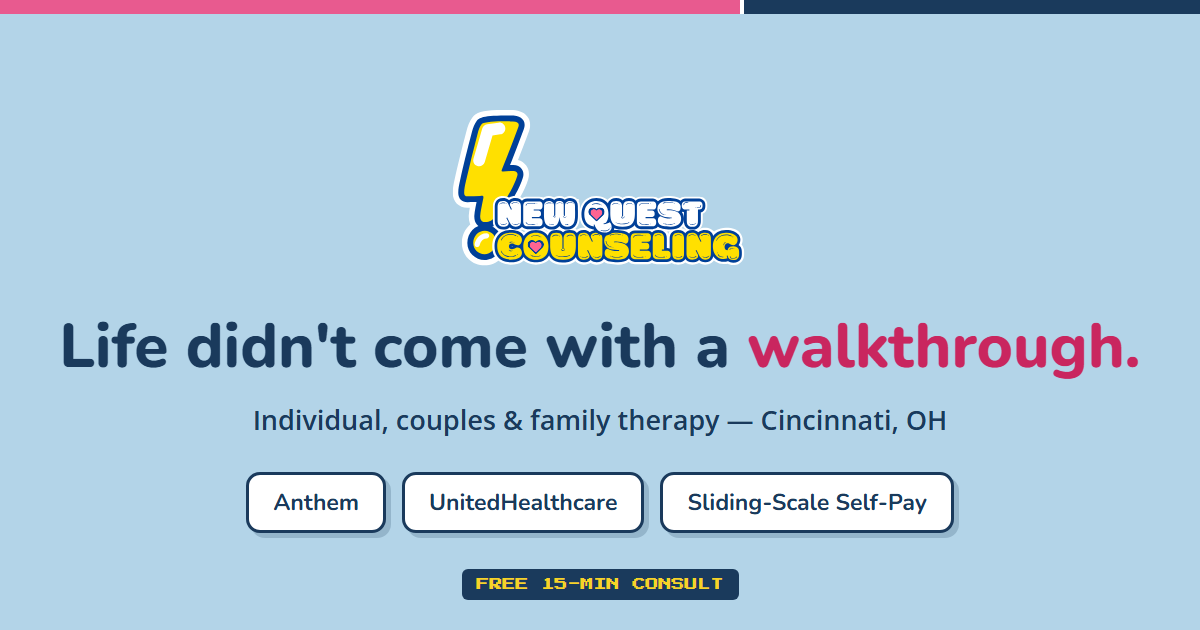
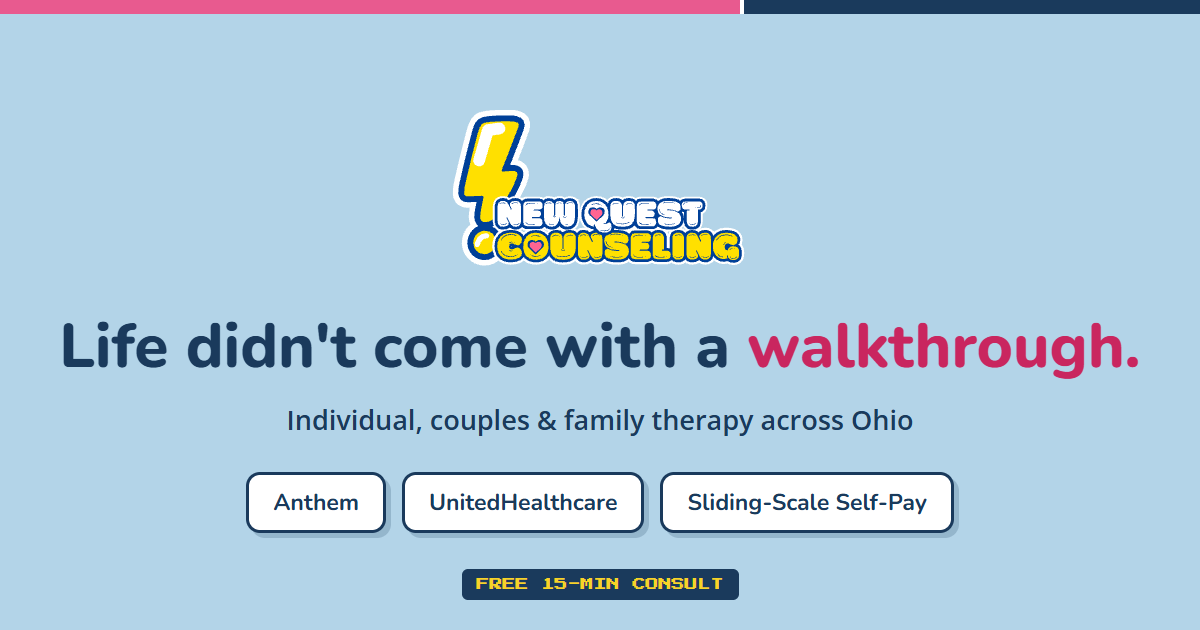
Reframe the site from Cincinnati-only to statewide online therapy
Dorasae now sees every client by video and is licensed across Ohio, so the
addressable market is the whole state, not one metro. The site did not say so.

Of the 11 Cincinnati mentions only 2 were in visible body copy, but the other
9 sat in the title, meta description, OG and Twitter cards, and schema.org
description, which is exactly what Google reads and what a searcher sees in
results. The FAQ already had the right statewide framing, buried 400 lines
down where no visitor arriving from an ad would reach it.

Title and meta now lead with online therapy in Ohio and name Cincinnati,
Columbus and Cleveland. The hero carries a visible "Online sessions anywhere
in Ohio. Based in Cincinnati." line, which is the message-match target for the
planned Search campaign. Cincinnati is reframed rather than removed: she is
based there, it carries local SEO weight, and the postal address in the
structured data is untouched.

Counts on index.html: Cincinnati 11 to 7, Ohio 6 to 11, Columbus and Cleveland
0 to 3 each, online/virtual 2 to 10.

Also fixes a path bug in images/og-image.html. It referenced logo.svg relative
to images/, where no such file exists, so regenerating the social card
silently dropped the logo. Now ../logo.svg. og-image.png regenerated with the
new subtitle and the logo intact.

Removes all 11 em dashes across the site, including two in meta descriptions
and one in visible about.html copy.

diff --git a/index.html b/index.html
@@ -40,8 +40,8 @@
     }
     </script>
 
-    <title>New Quest Counseling | Therapy in Cincinnati, OH</title>
-    <meta name="description" content="Therapy in Cincinnati, Ohio with Dorasae Rosario, LPCC. Individual, couples, and family counseling for anxiety, burnout, and life transitions. Now accepting Anthem and UnitedHealthcare, plus sliding-scale self-pay. Free 15-minute consultation.">
+    <title>New Quest Counseling | Online Therapy in Ohio</title>
+    <meta name="description" content="Online therapy anywhere in Ohio, including Cincinnati, Columbus, and Cleveland. Individual, couples, and family counseling with Dorasae Rosario, LPCC, for anxiety, burnout, and life transitions. Anthem and UnitedHealthcare accepted, plus sliding-scale self-pay. Free 15-minute consultation.">
     <link rel="canonical" href="https://www.newquestcounseling.com/">
     <meta name="theme-color" content="#1A3A5C">
 
@@ -53,18 +53,18 @@
     <meta property="og:type" content="website">
     <meta property="og:site_name" content="New Quest Counseling">
     <meta property="og:url" content="https://www.newquestcounseling.com/">
-    <meta property="og:title" content="New Quest Counseling | Therapy in Cincinnati, OH">
-    <meta property="og:description" content="Life didn't come with a walkthrough. Individual, couples, and family therapy in Cincinnati, OH. Now accepting Anthem and UnitedHealthcare. Free 15-minute consultation.">
+    <meta property="og:title" content="New Quest Counseling | Online Therapy in Ohio">
+    <meta property="og:description" content="Life didn't come with a walkthrough. Online individual, couples, and family therapy across Ohio. Now accepting Anthem and UnitedHealthcare. Free 15-minute consultation.">
     <meta property="og:image" content="https://www.newquestcounseling.com/og-image.png">
     <meta property="og:image:width" content="1200">
     <meta property="og:image:height" content="630">
-    <meta property="og:image:alt" content="New Quest Counseling — therapy in Cincinnati, Ohio">
+    <meta property="og:image:alt" content="New Quest Counseling, online therapy across Ohio">
     <meta property="og:locale" content="en_US">
 
     <!-- Twitter -->
     <meta name="twitter:card" content="summary_large_image">
-    <meta name="twitter:title" content="New Quest Counseling | Therapy in Cincinnati, OH">
-    <meta name="twitter:description" content="Life didn't come with a walkthrough. Individual, couples, and family therapy in Cincinnati, OH. Now accepting Anthem and UnitedHealthcare.">
+    <meta name="twitter:title" content="New Quest Counseling | Online Therapy in Ohio">
+    <meta name="twitter:description" content="Life didn't come with a walkthrough. Online individual, couples, and family therapy across Ohio. Now accepting Anthem and UnitedHealthcare.">
     <meta name="twitter:image" content="https://www.newquestcounseling.com/og-image.png">
 
     <!-- Meta Pixel Code -->
@@ -129,7 +129,7 @@
       "url": "https://www.newquestcounseling.com/",
       "image": "https://www.newquestcounseling.com/og-image.png",
       "logo": "https://www.newquestcounseling.com/logo.svg",
-      "description": "Individual, couples, and family therapy in Cincinnati, Ohio. Virtual sessions available statewide.",
+      "description": "Online individual, couples, and family therapy for clients across Ohio, including Cincinnati, Columbus, and Cleveland. Based in Cincinnati, licensed statewide.",
       "telephone": "+1-513-622-9072",
       "email": "dorasae@newquestcounseling.com",
       "priceRange": "$$",
@@ -244,7 +244,7 @@
                         View Services
                     </a>
                 </div>
-                <p class="mt-4 text-sm text-quest-slate font-bold italic"><i class="fa-solid fa-location-dot mr-1" aria-hidden="true"></i>Based out of Cincinnati, Ohio</p>
+                <p class="mt-4 text-sm text-quest-slate font-bold italic"><i class="fa-solid fa-video mr-1" aria-hidden="true"></i>Online sessions anywhere in Ohio. Based in Cincinnati.</p>
                 <p class="mt-2 text-sm text-quest-slate font-bold"><i class="fa-solid fa-shield-heart mr-1 text-quest-red-dark" aria-hidden="true"></i>Now accepting Anthem &amp; UnitedHealthcare</p>
             </div>
         </div>
@@ -429,7 +429,7 @@
                     </button>
                     <div class="faq-content hidden px-6 pb-6 text-quest-slate bg-white">
                         <p class="font-pixel text-xs text-quest-gold mb-2 bg-quest-dark inline-block px-2 py-1 rounded">LOCATION</p>
-                        <p class="mt-2">I'm based in <strong>Cincinnati</strong> and licensed to practice throughout the state of Ohio. Sessions are available virtually, so you can connect from anywhere in the state.</p>
+                        <p class="mt-2">I'm based in <strong>Cincinnati</strong> and licensed to practice throughout the state of Ohio. Sessions are held virtually, so you can connect from anywhere in the state, whether that's Cincinnati, Columbus, Cleveland, or a small town in between.</p>
                     </div>
                 </div>
 

diff --git a/about.html b/about.html
@@ -14,7 +14,7 @@
     <meta charset="UTF-8">
     <meta name="viewport" content="width=device-width, initial-scale=1.0">
     <title>About Dorasae Rosario, LPCC | New Quest Counseling</title>
-    <meta name="description" content="Meet Dorasae Rosario, LPCC — a Cincinnati therapist with over five years of experience helping children, teens, and adults build coping skills and confidence. Prepare/Enrich certified for couples. Free phone consultation.">
+    <meta name="description" content="Meet Dorasae Rosario, LPCC, an Ohio therapist with over five years of experience helping children, teens, and adults build coping skills and confidence. Online sessions statewide. Prepare/Enrich certified for couples. Free phone consultation.">
     <link rel="canonical" href="https://www.newquestcounseling.com/about.html">
     <meta name="theme-color" content="#1A3A5C">
 
@@ -31,7 +31,7 @@
     <meta property="og:image" content="https://www.newquestcounseling.com/og-image.png">
     <meta property="og:image:width" content="1200">
     <meta property="og:image:height" content="630">
-    <meta property="og:image:alt" content="New Quest Counseling — therapy in Cincinnati, Ohio">
+    <meta property="og:image:alt" content="New Quest Counseling, online therapy across Ohio">
     <meta property="og:locale" content="en_US">
     <meta property="profile:first_name" content="Dorasae">
     <meta property="profile:last_name" content="Rosario">
@@ -321,7 +321,7 @@
                 <!-- Text Content -->
                 <div class="w-full lg:w-1/2">
                     <p class="text-lg text-quest-slate mb-4 leading-relaxed">
-                        Looking for someone to help guide you through life's ups and downs? Do you need a boost to set you back on your feet so you can show the world who's boss? Think of me as your DM—I'm here to set the stage, guide the adventure, and help you unlock the best version of yourself.
+                        Looking for someone to help guide you through life's ups and downs? Do you need a boost to set you back on your feet so you can show the world who's boss? Think of me as your DM. I'm here to set the stage, guide the adventure, and help you unlock the best version of yourself.
                     </p>
                     <p class="text-lg text-quest-slate mb-4 leading-relaxed">
                         My passion is empowerment; teaching essential life and coping skills to help you navigate through life in a healthy way. I know you already have it in you, so it's time to help you discover that strength for yourself. You are not alone in this journey, so let's take that next step together.

diff --git a/styles.css b/styles.css
@@ -1,5 +1,5 @@
 /* ==========================================================================
-   New Quest Counseling — design layer
+   New Quest Counseling design layer
    Carries the ad/logo design language (dot-grid paper, chunky navy sticker
    shadows, Fredoka bubble headings, pink+gold highlight swipes) through the
    whole site. Loaded by index.html and about.html after Tailwind.
@@ -76,7 +76,7 @@ body section.border-y-4::before {
 }
 
 /* --------------------------------------------------------------------------
-   Typography — Fredoka bubble headings, matching the logo and ads
+   Typography: Fredoka bubble headings, matching the logo and ads
    -------------------------------------------------------------------------- */
 
 h1, h2, h3,
@@ -237,7 +237,7 @@ h1 { letter-spacing: -0.01em; }
 }
 
 /* --------------------------------------------------------------------------
-   Cards — sticker lift + tilt on hover
+   Cards: sticker lift + tilt on hover
    -------------------------------------------------------------------------- */
 
 .shadow-pixel {
@@ -308,7 +308,7 @@ footer.bg-quest-dark {
 }
 
 /* --------------------------------------------------------------------------
-   Motion — hero load-in and scroll reveals
+   Motion: hero load-in and scroll reveals
    -------------------------------------------------------------------------- */
 
 @keyframes float {

diff --git a/images/og-image.html b/images/og-image.html
@@ -19,9 +19,9 @@
        background:#1A3A5C;color:#F7D426;padding:9px 15px;border-radius:6px}
 </style></head><body>
   <div class="bar"><i></i></div>
-  <img class="logo" src="logo.svg" alt="">
+  <img class="logo" src="../logo.svg" alt="">
   <h1>Life didn't come with a <span>walkthrough.</span></h1>
-  <p class="sub">Individual, couples &amp; family therapy — Cincinnati, OH</p>
+  <p class="sub">Individual, couples &amp; family therapy across Ohio</p>
   <div class="pills">
     <div class="pill">Anthem</div>
     <div class="pill">UnitedHealthcare</div>

diff --git a/ads/export-ad.js b/ads/export-ad.js
@@ -18,7 +18,7 @@ const path = require('path');
         document.body.style.minHeight = '1080px';
     });
 
-    // Full page clip at 1080x1080 — captures the navy background behind rounded corners
+    // Full page clip at 1080x1080, captures the navy background behind rounded corners
     await page.screenshot({
         path: path.resolve(__dirname, 'ad1.png'),
         type: 'png',

diff --git a/ads/export-ad2.js b/ads/export-ad2.js
@@ -18,7 +18,7 @@ const path = require('path');
         document.body.style.minHeight = '1080px';
     });
 
-    // Full page clip at 1080x1080 — captures the navy background behind rounded corners
+    // Full page clip at 1080x1080, captures the navy background behind rounded corners
     await page.screenshot({
         path: path.resolve(__dirname, 'ad2.png'),
         type: 'png',
